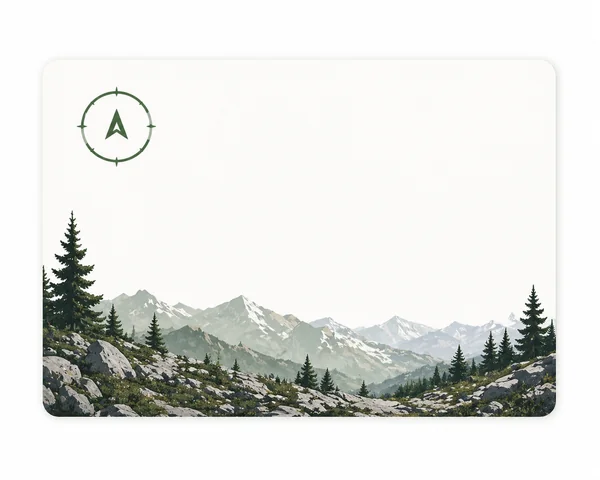
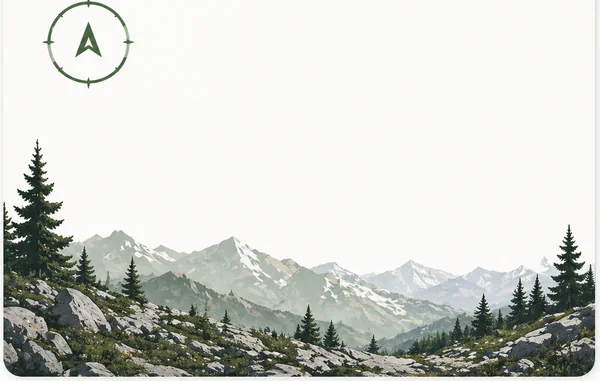
Add intro video modal + tighten KPI tiles to image bounds
Intro modal:
- New IntroVideoModal that opens on every page load
- Embeds the Cloudinary-hosted Pronghorn intro video in a 16:9 iframe
- Backdrop click, Escape key, X button, and "Skip intro" button all dismiss
- Body scroll locked while open

KPI tile sizing:
- Re-cropped kpi1-4 source PNGs to the painted card area only,
  ignoring isolated stray pixels via row/col density threshold
- Updated tile aspectRatio from 5/4 (1.25) to 20/13 (1.54) so
  the tile wraps the painted image instead of leaving a white frame

diff --git a/app/funding-loops-app/src/components/IntroVideoModal.jsx b/app/funding-loops-app/src/components/IntroVideoModal.jsx
@@ -1,0 +1,97 @@
+import React, { useEffect } from "react"
+
+export default function IntroVideoModal({ open, onClose }) {
+  useEffect(() => {
+    if (!open) return
+    const handler = (e) => { if (e.key === "Escape") onClose() }
+    window.addEventListener("keydown", handler)
+    document.body.style.overflow = "hidden"
+    return () => {
+      window.removeEventListener("keydown", handler)
+      document.body.style.overflow = ""
+    }
+  }, [open, onClose])
+
+  if (!open) return null
+
+  return (
+    <div
+      onClick={onClose}
+      role="dialog"
+      aria-modal="true"
+      aria-label="AIM Pronghorn 404 intro video"
+      style={{
+        position: "fixed", inset: 0,
+        background: "rgba(15, 23, 42, 0.85)",
+        backdropFilter: "blur(6px)",
+        WebkitBackdropFilter: "blur(6px)",
+        zIndex: 1000,
+        display: "flex", alignItems: "center", justifyContent: "center",
+        padding: 24,
+        animation: "fade-in 0.25s ease forwards",
+      }}
+    >
+      <div
+        onClick={e => e.stopPropagation()}
+        style={{
+          width: "100%",
+          maxWidth: 960,
+          background: "#000",
+          borderRadius: 14,
+          overflow: "hidden",
+          boxShadow: "0 24px 64px rgba(0,0,0,0.5)",
+          position: "relative",
+        }}
+      >
+        <button
+          onClick={onClose}
+          aria-label="Close intro video"
+          style={{
+            position: "absolute", top: 10, right: 10, zIndex: 2,
+            width: 36, height: 36, borderRadius: "50%",
+            background: "rgba(0,0,0,0.6)",
+            border: "1px solid rgba(255,255,255,0.2)",
+            color: "#fff", cursor: "pointer",
+            display: "flex", alignItems: "center", justifyContent: "center",
+            fontSize: 22, lineHeight: 1, fontWeight: 300,
+            transition: "background 0.15s",
+          }}
+          onMouseEnter={e => e.currentTarget.style.background = "rgba(0,0,0,0.85)"}
+          onMouseLeave={e => e.currentTarget.style.background = "rgba(0,0,0,0.6)"}
+        >
+          ×
+        </button>
+
+        {/* 16:9 responsive video container */}
+        <div style={{ position: "relative", paddingBottom: "56.25%", height: 0 }}>
+          <iframe
+            src="https://player.cloudinary.com/embed/?cloud_name=drgja8tls&public_id=Pronghorn_Intro_z9jynd"
+            title="AIM Pronghorn 404 — Intro"
+            allow="autoplay; fullscreen; encrypted-media; picture-in-picture"
+            allowFullScreen
+            style={{ position: "absolute", top: 0, left: 0, width: "100%", height: "100%", border: 0 }}
+          />
+        </div>
+
+        <div style={{ display: "flex", justifyContent: "center", padding: "14px 16px", background: "#000" }}>
+          <button
+            onClick={onClose}
+            style={{
+              padding: "9px 28px", borderRadius: 8,
+              background: "linear-gradient(135deg, #C47A2C, #8B5CF6)",
+              border: "none", color: "#fff",
+              fontWeight: 600, fontSize: 13, letterSpacing: "0.4px",
+              cursor: "pointer",
+              transition: "transform 0.15s, box-shadow 0.15s",
+              boxShadow: "0 2px 10px rgba(196,122,44,0.35)",
+            }}
+            onMouseEnter={e => { e.currentTarget.style.transform = "scale(1.03)"; e.currentTarget.style.boxShadow = "0 4px 16px rgba(139,92,246,0.45)" }}
+            onMouseLeave={e => { e.currentTarget.style.transform = ""; e.currentTarget.style.boxShadow = "0 2px 10px rgba(196,122,44,0.35)" }}
+          >
+            Skip intro
+          </button>
+        </div>
+      </div>
+    </div>
+  )
+}

diff --git a/app/funding-loops-app/src/App.jsx b/app/funding-loops-app/src/App.jsx
@@ -6,6 +6,7 @@ import NetworkGraph from "./components/NetworkGraph.jsx"
 import CharityDetail from "./components/CharityDetail.jsx"
 import EvaluationRules from "./components/EvaluationRules.jsx"
 import Services from "./components/Services.jsx"
+import IntroVideoModal from "./components/IntroVideoModal.jsx"
 
 class DetailErrorBoundary extends Component {
   constructor(props) { super(props); this.state = { error: null } }
@@ -157,11 +158,14 @@ function MainApp() {
   const [sidebarOpen, setSidebarOpen] = useState(true)
   const [charityBN, setCharityBN] = useState(null)
   const [prevTab, setPrevTab] = useState("leaderboard")
+  const [introOpen, setIntroOpen] = useState(true)
 
   const selectCharity = (bn) => { setPrevTab(tab); setCharityBN(bn); setTab("charity") }
   const openLeaderboard = (filter = "all") => { setLeaderboardFilter(filter); setTab("leaderboard") }
 
   return (
+    <>
+      <IntroVideoModal open={introOpen} onClose={() => setIntroOpen(false)} />
     <div style={{ height: "100vh", overflow: "hidden", display: "flex", flexDirection: "column", background: "#f0f4f8" }}>
       {/* Top header */}
       <header style={{
@@ -233,6 +237,7 @@ function MainApp() {
         </div>
       </div>
     </div>
+    </>
   )
 }
 

diff --git a/app/funding-loops-app/src/components/Dashboard.jsx b/app/funding-loops-app/src/components/Dashboard.jsx
@@ -99,7 +99,7 @@ export default function Dashboard({ onSelectCharity, onOpenLeaderboard }) {
         <div style={{ display:"grid", gridTemplateColumns:"repeat(4,1fr)", gap:16 }}>
           {loading
             ? [1,2,3,4].map(i => (
-                <div key={i} style={{ aspectRatio: "5 / 4", borderRadius: 14, background: "rgba(255,255,255,0.85)", boxShadow: "0 2px 10px rgba(0,0,0,0.10)" }}>
+                <div key={i} style={{ aspectRatio: "20 / 13", borderRadius: 14, background: "rgba(255,255,255,0.85)", boxShadow: "0 2px 10px rgba(0,0,0,0.10)" }}>
                   <div style={{ padding: 18 }}><Skeleton h={20} /></div>
                 </div>
               ))
@@ -115,7 +115,7 @@ export default function Dashboard({ onSelectCharity, onOpenLeaderboard }) {
                   backgroundImage: `url('/brand/kpis/${cfg.image}')`,
                   backgroundSize: "cover",
                   backgroundPosition: "center",
-                  aspectRatio: "5 / 4",
+                  aspectRatio: "20 / 13",
                   display: "flex",
                   flexDirection: "column",
                   alignItems: "flex-end",
